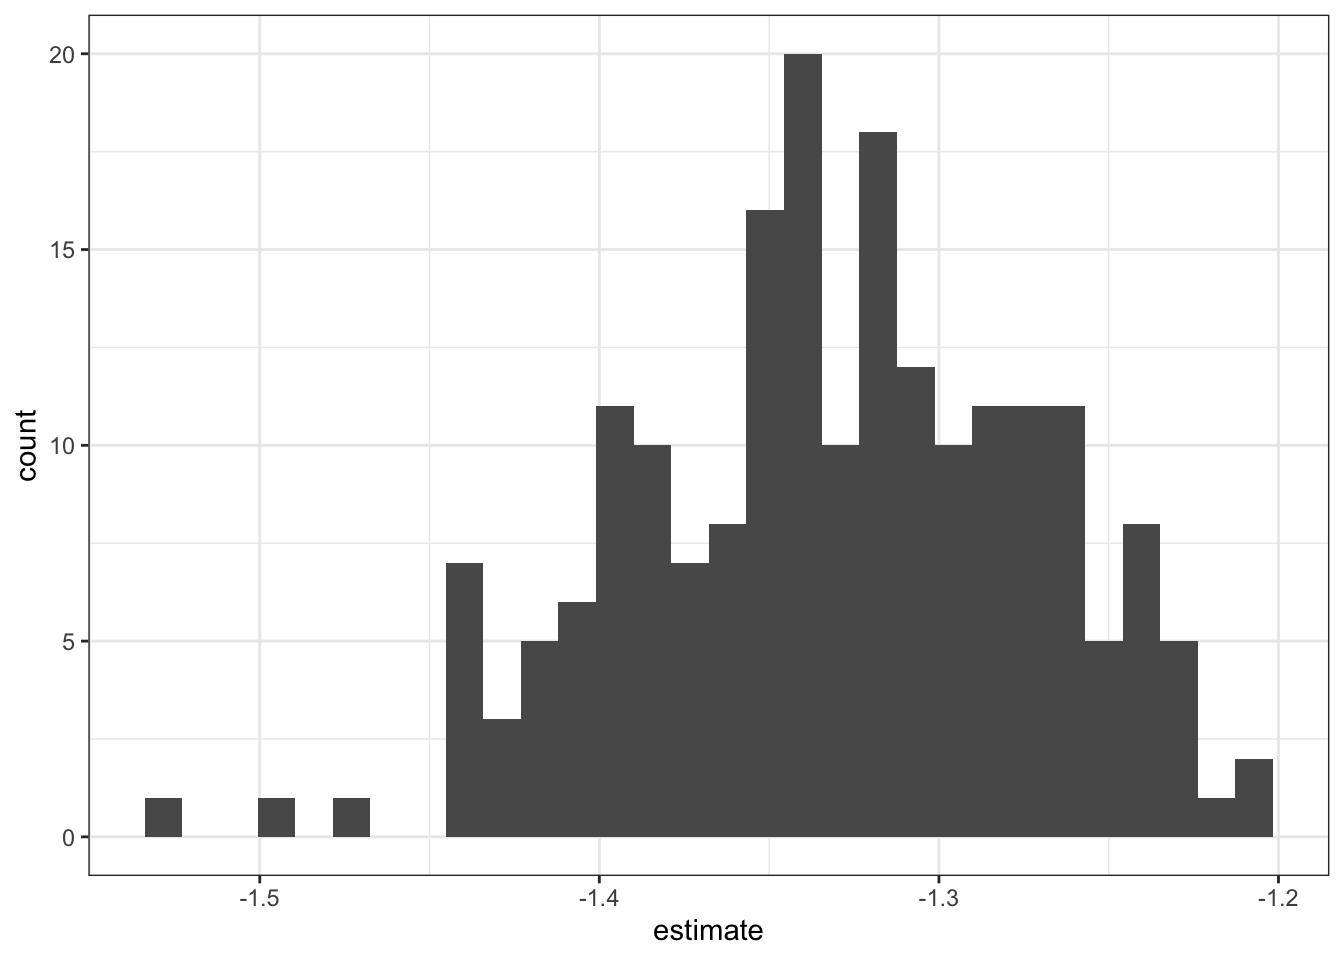
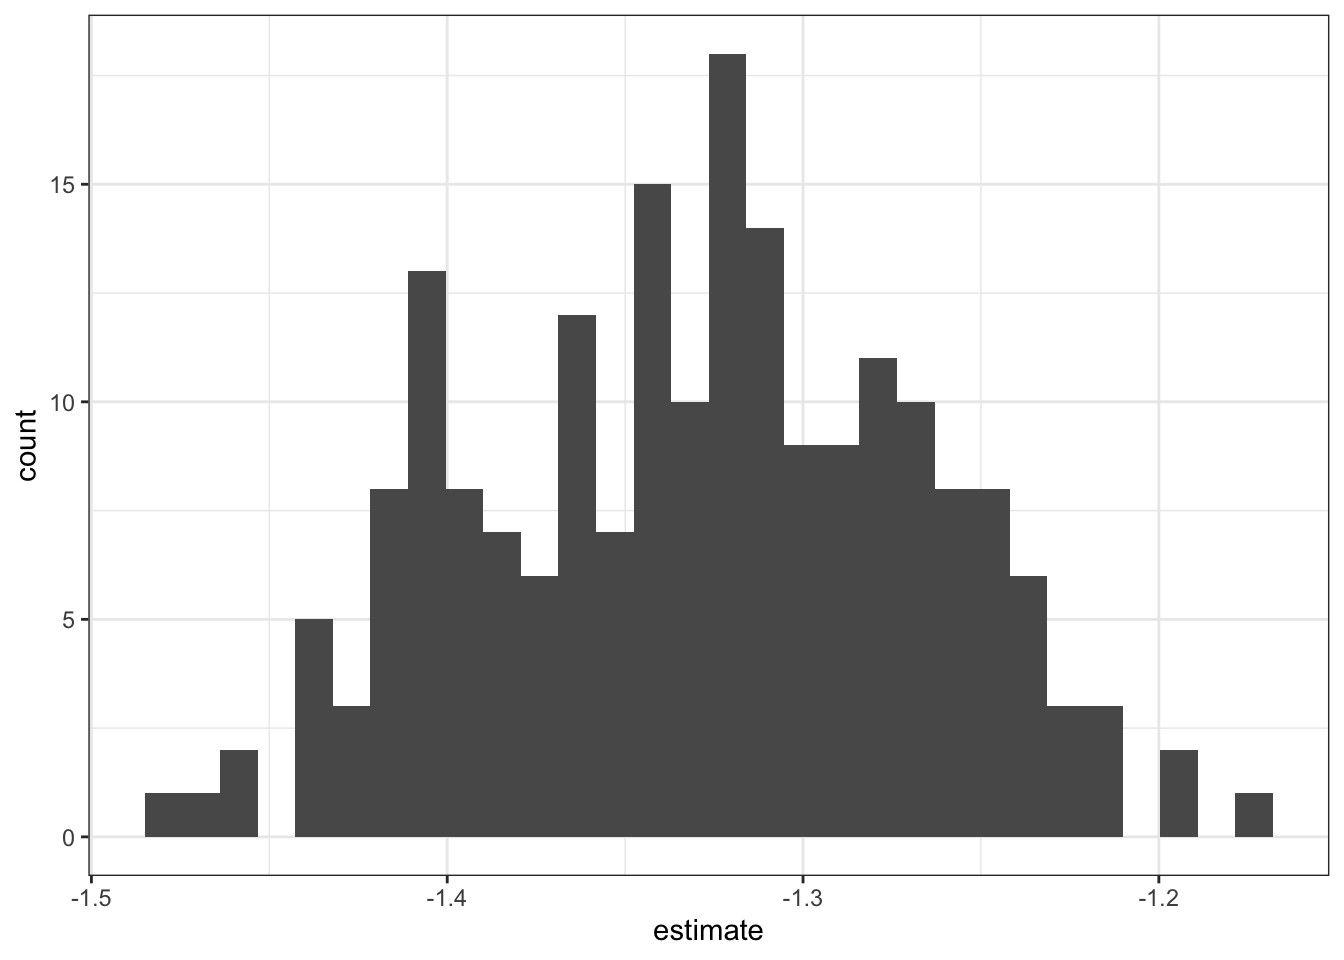
setting seed to stop re-gen figs
also, fixing the path to the avocado photo to wikimedia commons photo instead

diff --git a/posts/2020-04-08-tidy-multilevel/index.html b/posts/2020-04-08-tidy-multilevel/index.html
@@ -262,7 +262,7 @@
 <p>In this tutorial, we’ll be exploring grocery store sales data of millenials’ favorite fruit: avocados!</p>
 
   <figure class="center" >
-    <img src="https://lh3.googleusercontent.com/proxy/mpb5XEyV0ZrT61hVmDf6r6xoQag2E9WMYHi7SSznFvYCIgNEdDdCIgcrBEWgp_zp9Nwqww0KK4xNrAwQM--Qk8qDVao6PcRb-TC1du8"   />
+    <img src="https://upload.wikimedia.org/wikipedia/commons/thumb/2/25/Avocado_open_side_by_side.jpg/640px-Avocado_open_side_by_side.jpg"   />
     
       <figcaption class="center" >The fruit that launched a thousand guacamoles?</figcaption>
     
@@ -434,8 +434,10 @@ plot_hist_avo_total_volume</code></pre>
 <h3><span class="header-section-number">3.4.2</span> Basic summary statistics</h3>
 <p>In addition to graphs, we can generate simple one-shot summary statistics using <code>group_by()</code> and <code>summarize()</code> from the <code>dplyr</code> package.</p>
 <p>As a companion to the exploratory graphs of <code>total_volume</code> we just generated, we can calculate numerical summaries of the weekly number of avocados sold as a quick metric of the difference in buying patterns for conventional and organic avocados. Before we calculate these summaries, though, we should create a new column for log-10-transformed <code>total_volume</code>, as we saw earlier in our graphs that it’s massively right-tailed and needs to be log-transformed to look more normal.</p>
-<pre class="language-r"><code class="language-r"># The double-sided pipe %&lt;&gt;%, from magrittr
-# does the same thing as:
+<pre class="language-r"><code class="language-r"># The double-sided assignment pipe %&lt;&gt;%, from magrittr
+# you can use this by library()-ing magrittr
+# in addition to library(tidyverse)
+# avocado %&lt;&gt;% ... does the same thing as:
 # avocado &lt;- avocado %&gt;% ...
 # so it gives us a shortcut to pipe an object into some calls,
 # and then re-save the new result back into the old variable name
@@ -1269,22 +1271,22 @@ avo_coefplot +
 ## # A tibble: 200 x 2
 ##    splits            id          
 ##    &lt;list&gt;            &lt;chr&gt;       
-##  1 &lt;split [338/112]&gt; Bootstrap001
-##  2 &lt;split [338/122]&gt; Bootstrap002
-##  3 &lt;split [338/119]&gt; Bootstrap003
-##  4 &lt;split [338/120]&gt; Bootstrap004
-##  5 &lt;split [338/131]&gt; Bootstrap005
-##  6 &lt;split [338/121]&gt; Bootstrap006
-##  7 &lt;split [338/123]&gt; Bootstrap007
-##  8 &lt;split [338/118]&gt; Bootstrap008
-##  9 &lt;split [338/118]&gt; Bootstrap009
-## 10 &lt;split [338/118]&gt; Bootstrap010
+##  1 &lt;split [338/122]&gt; Bootstrap001
+##  2 &lt;split [338/118]&gt; Bootstrap002
+##  3 &lt;split [338/122]&gt; Bootstrap003
+##  4 &lt;split [338/124]&gt; Bootstrap004
+##  5 &lt;split [338/137]&gt; Bootstrap005
+##  6 &lt;split [338/126]&gt; Bootstrap006
+##  7 &lt;split [338/126]&gt; Bootstrap007
+##  8 &lt;split [338/138]&gt; Bootstrap008
+##  9 &lt;split [338/119]&gt; Bootstrap009
+## 10 &lt;split [338/125]&gt; Bootstrap010
 ## # … with 190 more rows</code></pre>
 <p><code>bootstraps()</code> returns a dataframe with a character column called <code>id</code> which labels each iteration, and a list column called <code>splits</code> where each element houses metadata for a resampled dataset. I say metadata because part of the trick that <code>bootstraps()</code> uses is that the native <code>split</code> object type doesn’t actually contain any data on its own:</p>
 <pre class="language-r"><code class="language-r">avo_nyc_boot %&gt;%
   pull(splits) %&gt;%
   pluck(1)</code></pre>
-<pre><code>## &lt;338/112/338&gt;</code></pre>
+<pre><code>## &lt;338/122/338&gt;</code></pre>
 <p>These numbers aren’t really designed for human consumption on their own. The real magic happens when you call <code>as.data.frame()</code> on a <code>split</code> object, which triggers it to actually do the resampling and give you a tibble of data.</p>
 <pre class="language-r"><code class="language-r">avo_nyc_boot %&gt;%
   pull(splits) %&gt;%
@@ -1293,16 +1295,16 @@ avo_coefplot +
 <pre><code>## # A tibble: 338 x 8
 ##    region date       avg_price total_volume type   year total_volume_lo…
 ##    &lt;chr&gt;  &lt;date&gt;         &lt;dbl&gt;        &lt;dbl&gt; &lt;chr&gt; &lt;int&gt;            &lt;dbl&gt;
-##  1 NewYo… 2017-01-01      1.44      940983. conv…  2017             5.97
-##  2 NewYo… 2017-08-27      1.81     1100988. conv…  2017             6.04
-##  3 NewYo… 2016-06-12      1.44     1485642. conv…  2016             6.17
-##  4 NewYo… 2016-06-12      1.44     1485642. conv…  2016             6.17
-##  5 NewYo… 2015-01-18      2.08        9205. orga…  2015             3.96
-##  6 NewYo… 2015-04-05      2.14       14908. orga…  2015             4.17
-##  7 NewYo… 2017-08-20      1.75     1057189. conv…  2017             6.02
-##  8 NewYo… 2018-01-07      1.67     1287480. conv…  2018             6.11
-##  9 NewYo… 2017-11-12      1.52     1122350  conv…  2017             6.05
-## 10 NewYo… 2016-09-18      2.36       45702. orga…  2016             4.66
+##  1 NewYo… 2017-08-20      1.75     1057189. conv…  2017             6.02
+##  2 NewYo… 2018-03-18      1.7       189434. orga…  2018             5.28
+##  3 NewYo… 2017-05-28      2.38       76002. orga…  2017             4.88
+##  4 NewYo… 2015-08-02      2.12       13852. orga…  2015             4.14
+##  5 NewYo… 2016-08-21      2.16       30583. orga…  2016             4.49
+##  6 NewYo… 2016-09-04      1.47     1278749. conv…  2016             6.11
+##  7 NewYo… 2017-08-20      1.85      107275. orga…  2017             5.03
+##  8 NewYo… 2016-12-11      2.22       32659. orga…  2016             4.51
+##  9 NewYo… 2015-02-01      1.36     1433763. conv…  2015             6.16
+## 10 NewYo… 2016-07-31      2.41       24048. orga…  2016             4.38
 ## # … with 328 more rows, and 1 more variable: avg_price_shift1 &lt;dbl&gt;</code></pre>
 <p>To double-check that the data were actually resampled with replacement, we can look in this first resampled tibble to make sure that at least some of the rows appear multiple times in the data.</p>
 <pre class="language-r"><code class="language-r">avo_nyc_boot %&gt;%
@@ -1311,20 +1313,20 @@ avo_coefplot +
   as.data.frame() %&gt;%
   count(date) %&gt;%
   arrange(desc(n))</code></pre>
-<pre><code>## # A tibble: 147 x 2
+<pre><code>## # A tibble: 144 x 2
 ##    date           n
 ##    &lt;date&gt;     &lt;int&gt;
-##  1 2015-07-26     5
-##  2 2015-09-13     5
-##  3 2016-07-03     5
-##  4 2017-05-28     5
-##  5 2017-06-25     5
-##  6 2018-01-28     5
-##  7 2015-01-18     4
-##  8 2015-04-19     4
-##  9 2015-05-03     4
-## 10 2015-05-10     4
-## # … with 137 more rows</code></pre>
+##  1 2016-12-18     6
+##  2 2015-05-24     5
+##  3 2015-12-27     5
+##  4 2016-06-19     5
+##  5 2016-09-18     5
+##  6 2016-12-11     5
+##  7 2017-05-14     5
+##  8 2017-05-28     5
+##  9 2015-02-22     4
+## 10 2015-04-19     4
+## # … with 134 more rows</code></pre>
 <p>Looks resampled to me! Now, we can use the same strategy we used before, but instead of operating on the raw data for each <code>region</code> contained in the <code>sales</code> column of <code>avo_by_region</code>, we’ll operate on the resampled data for each bootstrap <code>id</code> contained in the <code>splits</code> column of <code>avo_nyc_boot</code>.</p>
 <pre class="language-r"><code class="language-r">avo_nyc_boot %&lt;&gt;%
   # Note that here, I&#39;m not saving the models into their own column
@@ -1347,18 +1349,18 @@ avo_coefplot +
 <p>If we inspect the long-form unnested content of <code>avo_nyc_boot</code> after we’ve pulled out the bootstrapped coefficients, it looks pretty similar to the unnested coefficients in <code>avo_coefs</code>, but this time instead of coefficients by <code>region</code>, we’ve got coefficients by bootstrap <code>id</code>.</p>
 <pre class="language-r"><code class="language-r">avo_nyc_boot</code></pre>
 <pre><code>## # A tibble: 600 x 6
-##    id           term             estimate std.error statistic  p.value
-##    &lt;chr&gt;        &lt;chr&gt;               &lt;dbl&gt;     &lt;dbl&gt;     &lt;dbl&gt;    &lt;dbl&gt;
-##  1 Bootstrap001 (Intercept)         6.28     0.0287    219.   0.      
-##  2 Bootstrap001 typeorganic        -1.26     0.0464    -27.2  7.12e-87
-##  3 Bootstrap001 avg_price_shift1   -0.383    0.0577     -6.64 1.24e-10
-##  4 Bootstrap002 (Intercept)         6.26     0.0294    213.   0.      
-##  5 Bootstrap002 typeorganic        -1.33     0.0454    -29.2  4.41e-94
-##  6 Bootstrap002 avg_price_shift1   -0.344    0.0566     -6.07 3.39e- 9
-##  7 Bootstrap003 (Intercept)         6.34     0.0309    205.   0.      
-##  8 Bootstrap003 typeorganic        -1.23     0.0484    -25.5  2.30e-80
-##  9 Bootstrap003 avg_price_shift1   -0.530    0.0617     -8.58 3.52e-16
-## 10 Bootstrap004 (Intercept)         6.24     0.0274    227.   0.      
+##    id           term             estimate std.error statistic   p.value
+##    &lt;chr&gt;        &lt;chr&gt;               &lt;dbl&gt;     &lt;dbl&gt;     &lt;dbl&gt;     &lt;dbl&gt;
+##  1 Bootstrap001 (Intercept)         6.23     0.0285    218.   0.       
+##  2 Bootstrap001 typeorganic        -1.41     0.0450    -31.3  2.03e-101
+##  3 Bootstrap001 avg_price_shift1   -0.255    0.0562     -4.54 7.99e-  6
+##  4 Bootstrap002 (Intercept)         6.28     0.0283    222.   0.       
+##  5 Bootstrap002 typeorganic        -1.31     0.0441    -29.7  7.27e- 96
+##  6 Bootstrap002 avg_price_shift1   -0.383    0.0564     -6.78 5.51e- 11
+##  7 Bootstrap003 (Intercept)         6.29     0.0289    217.   0.       
+##  8 Bootstrap003 typeorganic        -1.28     0.0409    -31.4  1.13e-101
+##  9 Bootstrap003 avg_price_shift1   -0.397    0.0539     -7.37 1.35e- 12
+## 10 Bootstrap004 (Intercept)         6.24     0.0279    223.   0.       
 ## # … with 590 more rows</code></pre>
 <p>These coefficients are now ready to feed into a <code>ggplot2</code> histogram. I’ll just inspect the bootstrapped error distribution for <code>typeorganic</code>, the coefficient for the weekly difference in (log-10) volume of organic avocados sold relative to conventional avocados.</p>
 <pre class="language-r"><code class="language-r">avo_nyc_boot %&gt;%
